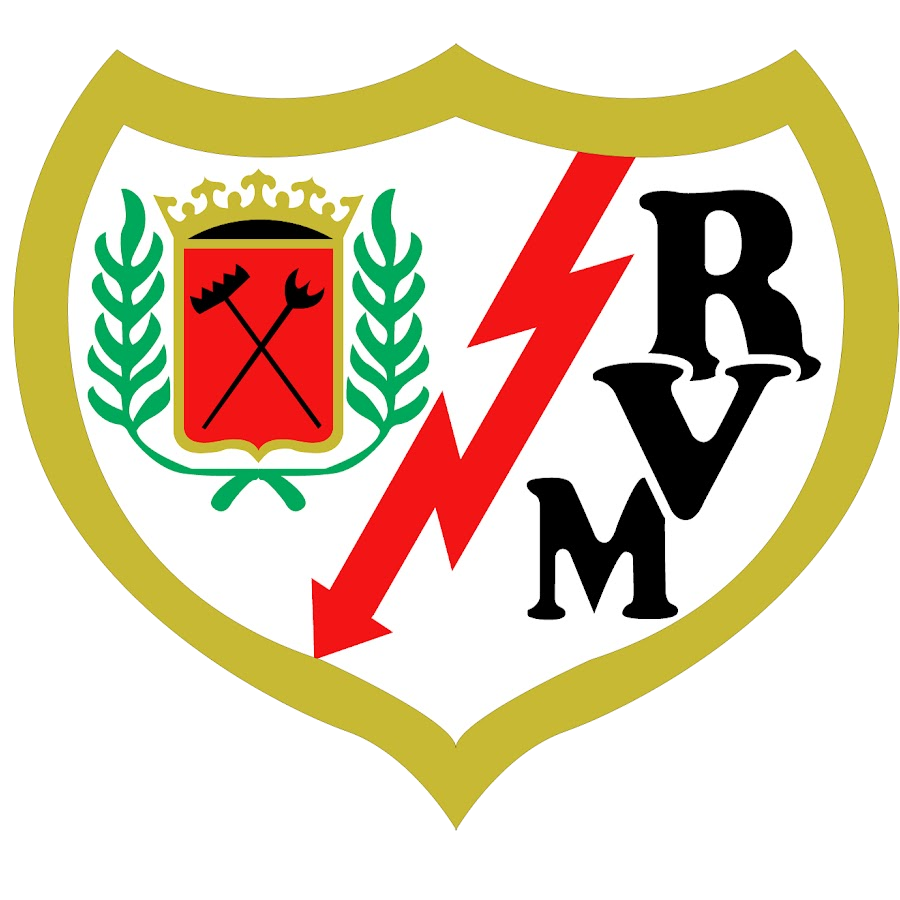
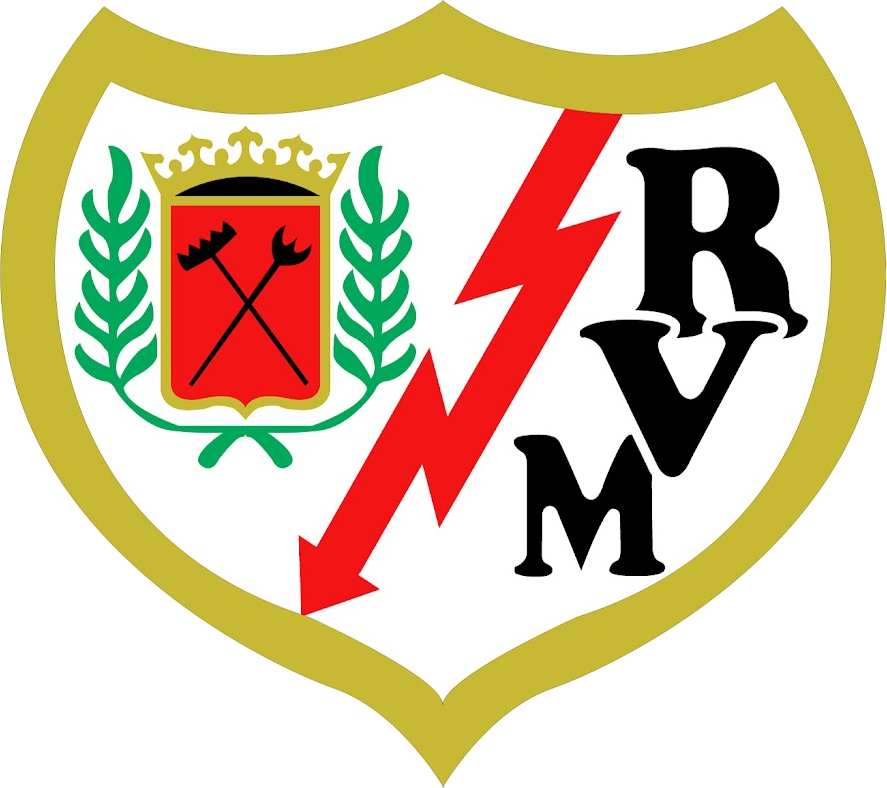
Fix stat tooltip cursor and normalize team crest image padding
The stat tiles used cursor-help, whose native question-mark cursor was
being mistaken for the tooltip itself; switched to the default cursor
so the real Base UI popup text is what shows on hover.

Trimmed the transparent/white padding baked into each crest image
(varied wildly by source, e.g. Levante and Osasuna had ~55% empty
margin vs. near-zero for others) so every crest fills its fixed-size
container consistently instead of appearing smaller than its peers.

diff --git a/components/sections.tsx b/components/sections.tsx
@@ -398,7 +398,7 @@ export function HomeSection({
                   <Tooltip key={label as string}>
                     <TooltipTrigger
                       render={
-                        <div className="cursor-help rounded-xl bg-slate-50 p-3 text-center" />
+                        <div className="rounded-xl bg-slate-50 p-3 text-center" />
                       }
                     >
                       <small className="block text-[10px] font-black uppercase tracking-wider text-slate-400">
